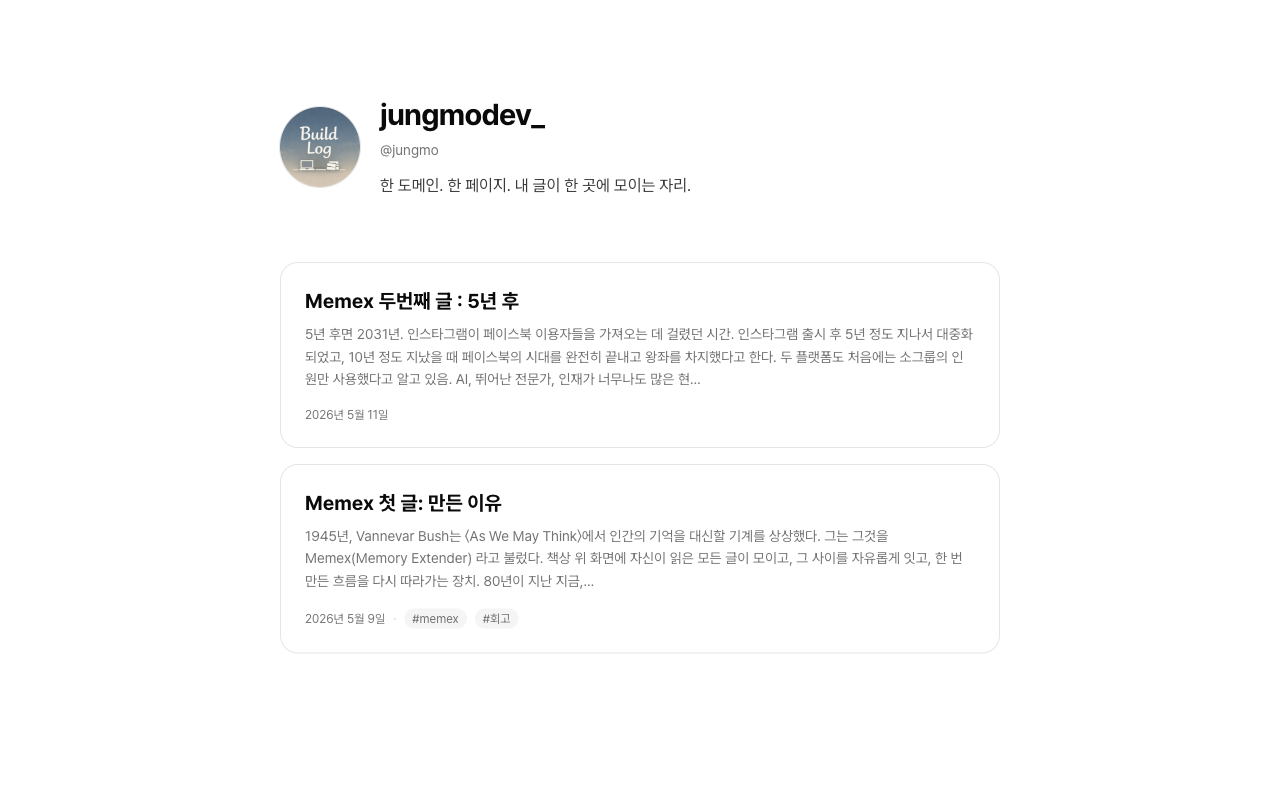
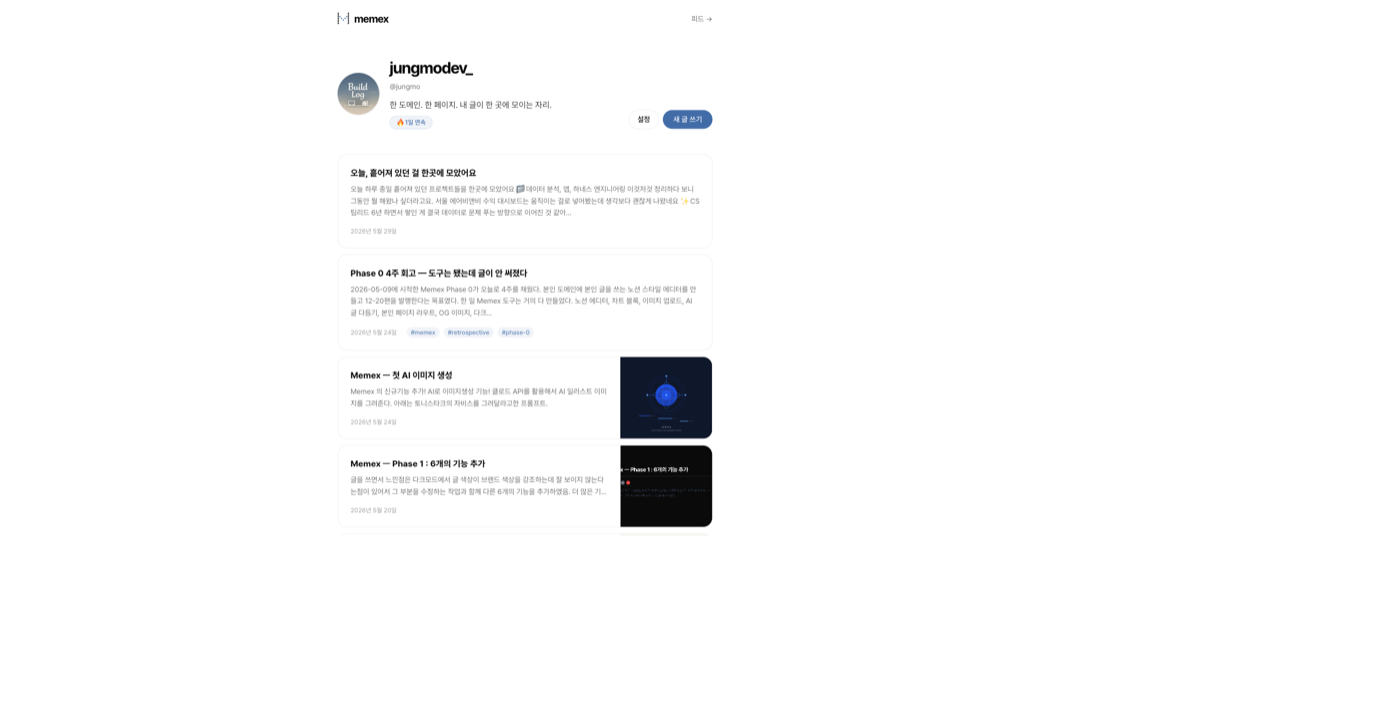
memex 카드 갱신 — AI 변환 워크플로우 GIF + 새 프로필 피드 스샷

diff --git a/index.html b/index.html
@@ -736,6 +736,12 @@
           <p class="text-sm text-muted">&mdash; AI 시대에 처음으로 가능해진 통합 표현 플랫폼</p>
         </div>
 
+        <h4 class="font-semibold mb-4">라이브 데모 &mdash; AI 변환 &rarr; 게시</h4>
+        <div class="img-card overflow-hidden border border-line bg-white mb-6 max-w-3xl">
+          <img src="assets/projects/memex/workflow.gif" alt="memex 워크플로우 데모" loading="lazy" class="w-full block" />
+          <div class="p-3 mono text-xs text-muted">텍스트를 프롬프트로 변환 &rarr; 내 페이지에 게시 (memex.kr · 비공개 베타)</div>
+        </div>
+
         <p class="label mb-3">$ ls screenshots/memex/</p>
         <div class="grid grid-cols-1 sm:grid-cols-2 gap-4 mb-4">
           <div class="img-card overflow-hidden border border-line bg-white">